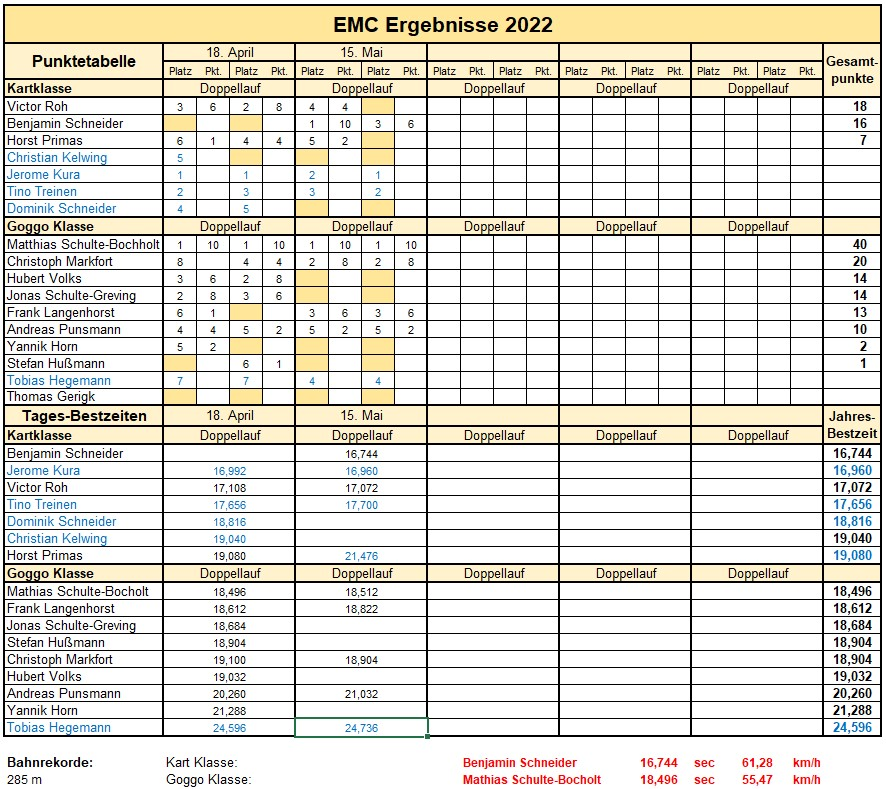
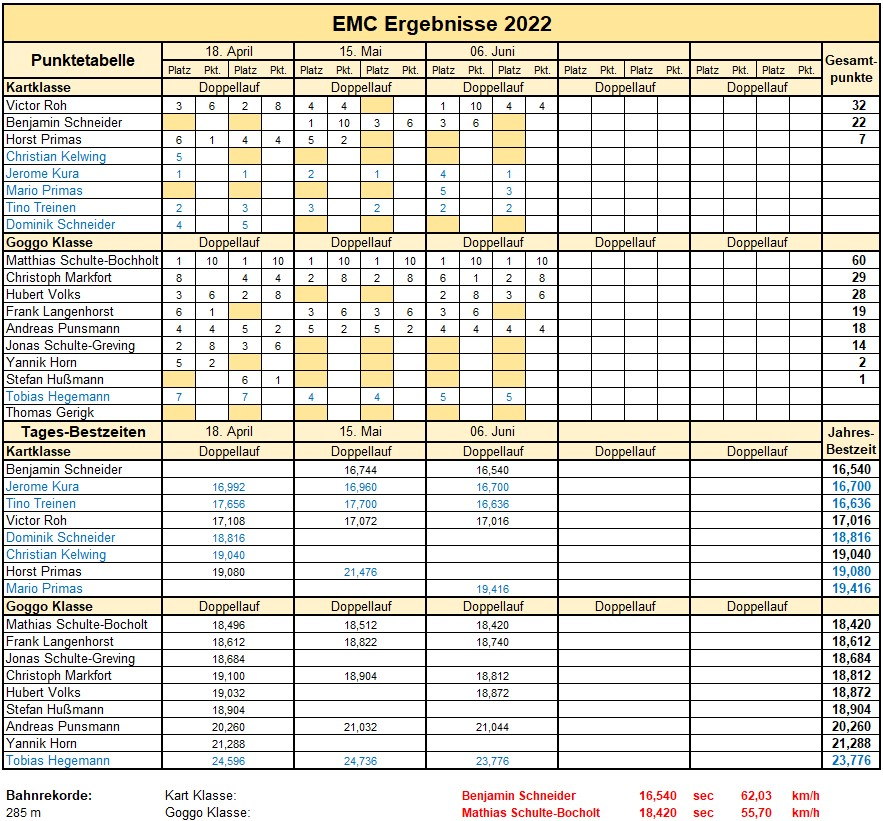
3.Rennen

diff --git a/index.html b/index.html
@@ -8,6 +8,47 @@ description: Kartsport mit "Goggo"-Karts und konventionellen Karts
 <!-------------------------------------------------------------------------->
 <h2 align="center">Das Jahr 2022</h2>
 
+<h3 align="center">3. Lauf um den Jahrespokal des EMC am 6. Juni 2022</h3>
+<p align="justify">
+  Der 3. Renntag wurde traditionell am Pfingstmontag auf unserer Bahn durchgeführt.
+  Bei trockenem Wetter gingen in der Goggo-Klasse 6 Fahrer und in der Kartklasse
+  5 Fahrer an den Start.
+</p>
+<p align="justify">
+  In der Goggo-Klasse war Matthias Schulte-Bocholt wieder in beiden Läufen
+  siegreich. Den 2. Platz belegte im 1. Lauf Hubert Volks, im 2. Lauf war es
+  Christoph Markfort. Als Tagessieger belegten Hubert Volks Platz 3 und Andreas
+  Punsmann Platz 4.
+</p>
+<p align="justify">
+  In der Kartklasse erreichte Benjamin Schneider mit neuem Motor Rundenbestzeit,
+  konnte dann aber wegen Einstellungsproblemen am Motor das Rennen nicht beenden.
+  Im ersten Lauf siegte Victor Roh vor Tino Treinen. Aus dem 2. Lauf gingen als
+  Tagessieger Jerome Kura vor Timo Treinen, Mario Primas und Victor Roh hervor.
+</p>
+<figure class="gesamt">           <!-- 2 Bilder nebeneinander anordnen -->
+      <figure class="einzel2">    <!-- Originalgröße 1630 x 1400 einstellen -->
+           <img src="img/rennen/2022.06.06_goggo.jpg" alt="Sieger Goggo" />
+           <figcaption>Tagessieger Goggo</figcaption>
+      </figure>
+      <figure class="einzel2">
+           <img src="img/rennen/2022.06.06_kart.jpg" alt="Sieger Kart" />
+           <figcaption>Tagessieger Kart</figcaption>
+      </figure>
+</figure>
+<div class="textspalten2">       <!-- Bildunterschrift in 2 Spalten anordnen -->
+   <ul>
+    	<li>1. Matthias Schulte-Bocholt</li>
+   		<li>2. Chistoph Markfort</li>
+   		<li>3. Hubert Volks</li>
+   		<li>4. Andreas Punsmann</li>
+   		<li>1. Jerome Kura</li>
+      <li>2. Tino Treinen</li>
+      <li>3. Mario Primas</li>
+      <li>4. Victor Roh</li>
+   </ul>
+</div>
+
 <h3 align="center">2. Lauf um den Jahrespokal des EMC am 15. Mai 2022</h3>
 <p align="justify">
   Bei bestem Sommerwetter haben wir uns zum 2. Renntag auf unserer Bahn getroffen.
@@ -52,6 +93,7 @@ description: Kartsport mit "Goggo"-Karts und konventionellen Karts
       <li></li>
    </ul>
 </div>
+
 <h3 align="center">1. Lauf um den Jahrespokal des EMC am 18. April 2022</h3>
 <p align="justify">
   Die Rennsaison des EMC konnte in diesem Jahr planmäßig mit dem 1. Lauf am
